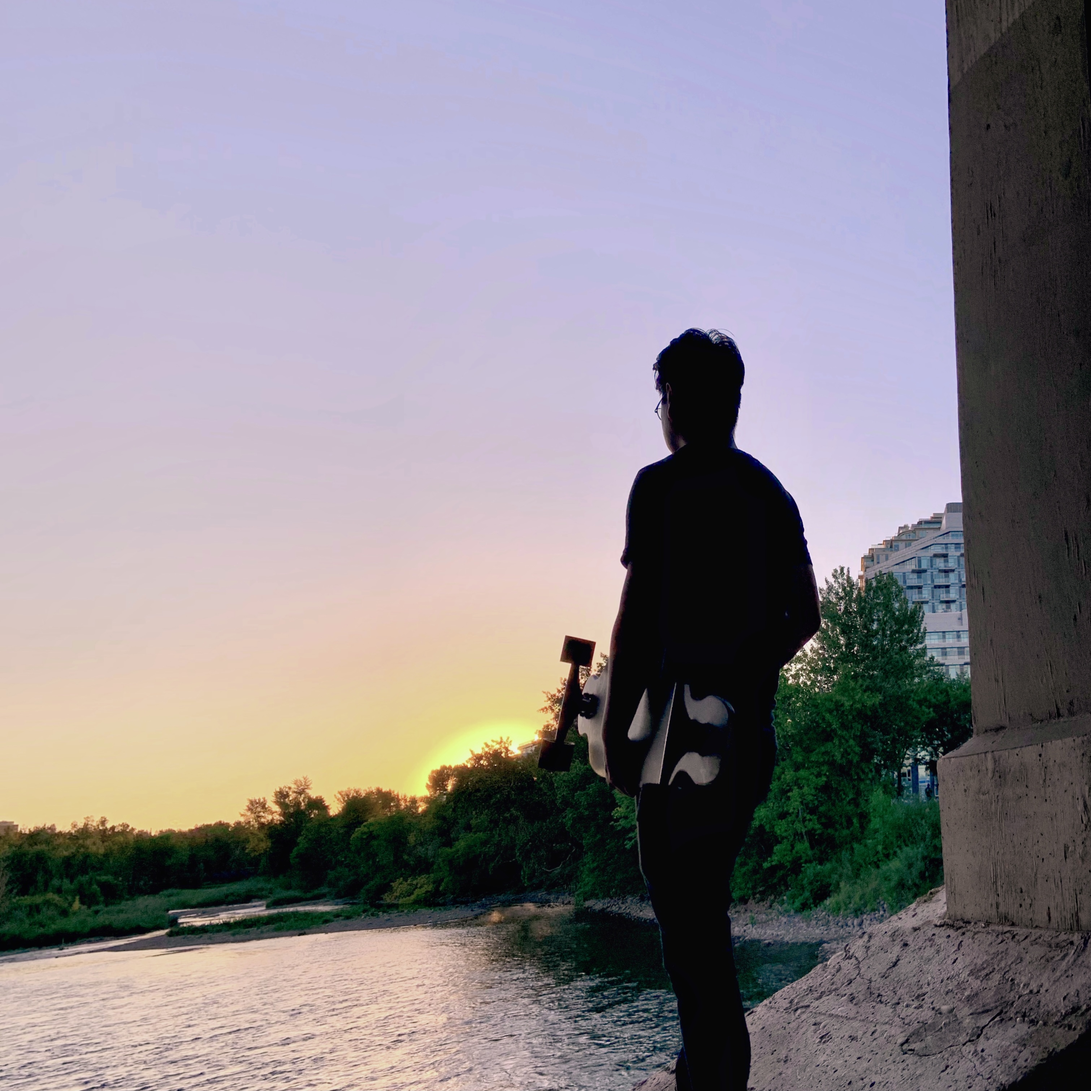
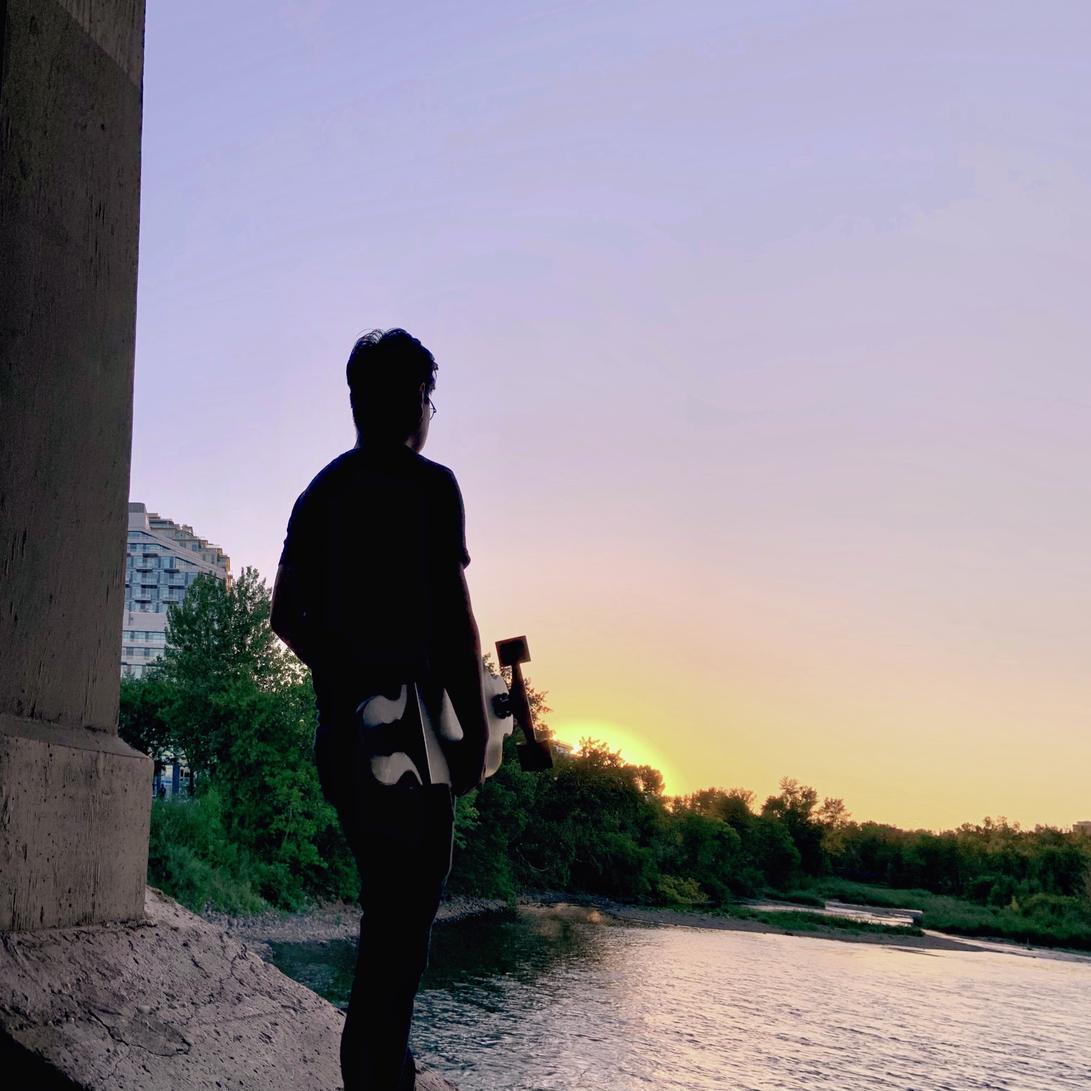
eslint fix + profile flip

diff --git a/my-gatsby-portfolio/src/components/atoms/ProjectCell/ProjectCell.js b/my-gatsby-portfolio/src/components/atoms/ProjectCell/ProjectCell.js
@@ -3,7 +3,7 @@ import { Slug, Fade } from 'mauerwerk';
 import { AiOutlineClose } from 'react-icons/ai';
 
 import { StyledCell } from './ProjectCell.styles';
-
+// https://github.com/drcmda/mauerwerk
 const ProjectCell = ({ toggle, name, height, description, css, maximized }) => (
 	<StyledCell
 		className="cell"
@@ -14,8 +14,13 @@ const ProjectCell = ({ toggle, name, height, description, css, maximized }) => (
 			<div className="details">
 				<Slug delay={600}>
 					<div className="circle" style={{ background: css }} />
-					{/* eslint-disable-next-line jsx-a11y/click-events-have-key-events */}
-					<div className="close" role="button" tabIndex={0} onClick={toggle}>
+					<div
+						className="close"
+						role="button"
+						tabIndex={0}
+						onClick={toggle}
+						onKeyDown={toggle}
+					>
 						<AiOutlineClose />
 					</div>
 					<h1>{name}</h1>

diff --git a/my-gatsby-portfolio/src/components/molecules/Projects/Projects.js b/my-gatsby-portfolio/src/components/molecules/Projects/Projects.js
@@ -4,7 +4,7 @@ import { ProjectContainer, ProjectGrid } from './Projects.styles';
 
 import ProjectCell from 'components/atoms/ProjectCell/ProjectCell';
 import data from 'data/projects';
-
+// https://github.com/drcmda/mauerwerk
 const Projects = () => (
 	<ProjectContainer>
 		<ProjectGrid
